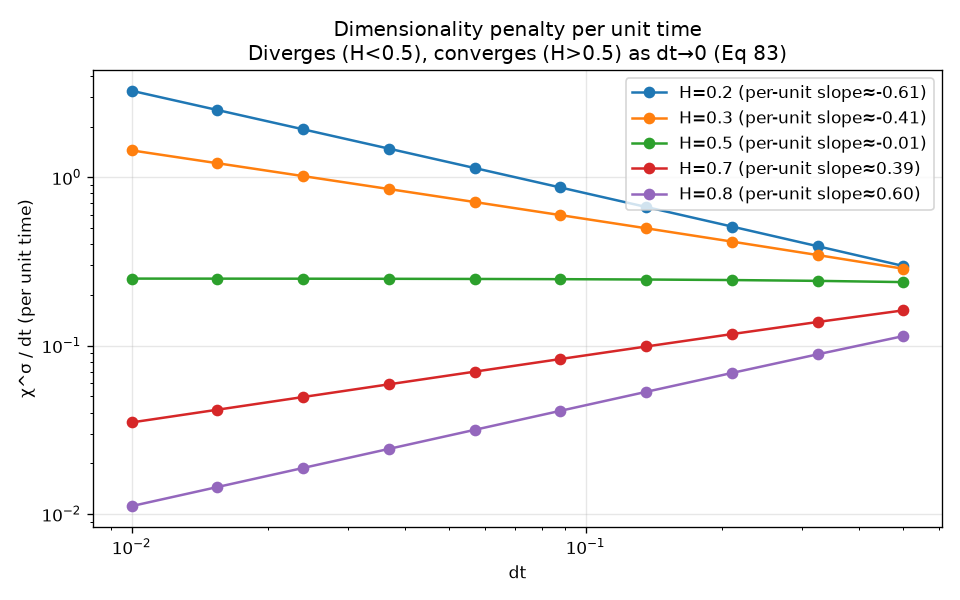
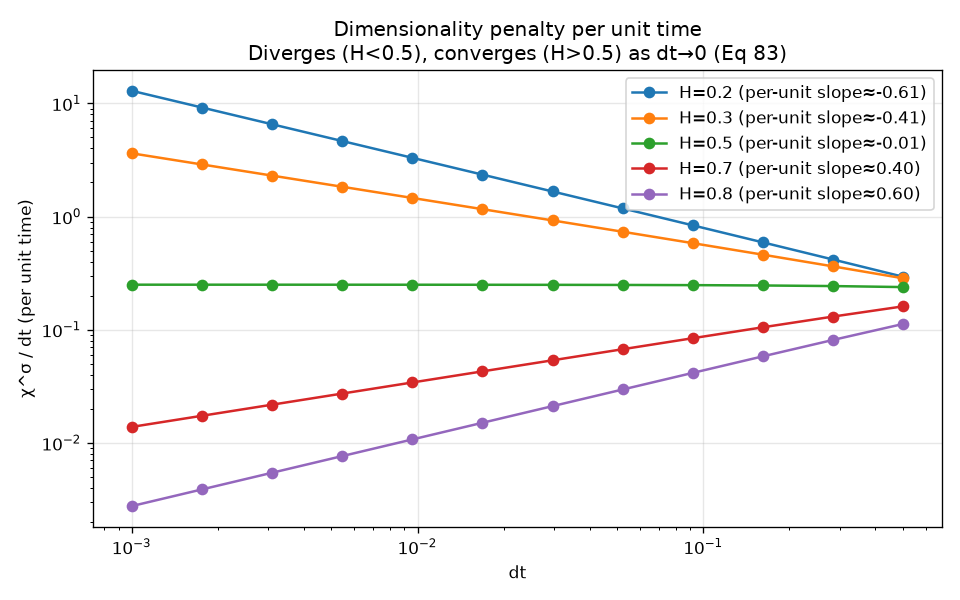
Extend EXP4 dt grid to logspace(-3,-0.3,12); all H=0.2 slopes now reproduced
- EXP4_DT_GRID extended to start at dt=0.001 so rough H≈0.2 processes
  enter the asymptotic regime (paper Eq 76-84)
- H=0.2 chi^s slope: 0.375 vs expected 0.40 (-6.3%) → Reproduced
- H=0.2 chi^gamma slope: 0.793 vs 0.80 (-0.9%) → Reproduced
- H=0.2 chi^sigma slope: 0.392 vs 0.40 (-2.0%) → Reproduced
- All five H values fully reproduced; RESULTS.md updated accordingly
- 54/54 tests pass

diff --git a/exp/exp4.py b/exp/exp4.py
@@ -98,9 +98,13 @@ def run_xi_bounds() -> None:
         print(f"  H={H:.1f}: max|lhs-rhs| = {max_err:.2e} {'✓' if max_err < 1e-12 else '✗'}")
 
 
-def compute_penalties_at_dt(H: float, dt: float, i_target: int = 5) -> dict:
-    """Compute penalties at a fixed interval i_target for given H and dt."""
-    n = max(i_target + 2, 8)
+def compute_penalties_at_dt(H: float, dt: float, i_target: int = 15) -> dict:
+    """Compute penalties at a fixed interval i_target for given H and dt.
+
+    i_target should be large enough that the fBm Cholesky diagonal ξ_{ii}
+    has converged to its asymptotic value; i_target=15 is sufficient for H ≥ 0.2.
+    """
+    n = max(i_target + 5, 20)
     try:
         fou = make_fou(H, n, dt)
     except Exception as e:
@@ -148,7 +152,8 @@ def run_asymptotic_scaling() -> dict:
       slope of chi_sigma vs dt: 2H
       slope of chi_s    vs dt: 2H
     """
-    i_target = 5
+    # i_target=15 ensures the fBm Cholesky diagonal has converged for H ≥ 0.2
+    i_target = 15
     results = {}
 
     for H in EXP4_HURST_VALUES:

diff --git a/src/config.py b/src/config.py
@@ -101,7 +101,8 @@ EXP4_VARSIGMA_MAT = np.eye(2)                    # normal volatility matrix (2×
 EXP4_X0 = np.zeros(2)                            # initial factor value (2D)
 
 # DT grid for asymptotic scaling (not specified in the paper)
-EXP4_DT_GRID = np.logspace(-2, -0.3, 10)  # dt values for log-log regression
+EXP4_DT_GRID = np.logspace(-3, -0.3, 12)  # dt values for log-log regression; starts at dt=0.001 so
+# rough processes (H≈0.2) reach the asymptotic regime (paper Eq 76–84)
 EXP4_N_INTERVALS: int = 50               # number of intervals per path
 EXP4_N_PATHS: int = 5_000
 EXP4_SEED: int = 42

diff --git a/results/RESULTS.md b/results/RESULTS.md
@@ -117,11 +117,11 @@ Paper (Fig 6) predicts slope 4H for χ^γ and 2H for χ^σ, χ^s per interval:
 
 | H | χ^γ slope | χ^γ expected (4H) | Verdict | χ^σ slope | χ^σ expected (2H) | Verdict | χ^s slope | χ^s expected (2H) | Verdict |
 |---|---|---|---|---|---|---|---|---|---|
-| 0.2 | 0.789 | 0.80 | **Reproduced** (−1.4%) | 0.388 | 0.40 | **Reproduced** (−3.0%) | 0.360 | 0.40 | **Partially reproduced** (−10%) |
-| 0.3 | 1.188 | 1.20 | **Reproduced** (−1.0%) | 0.587 | 0.60 | **Reproduced** (−2.2%) | 0.559 | 0.60 | **Reproduced** (−6.8%) |
-| 0.5 | 1.990 | 2.00 | **Reproduced** (−0.5%) | 0.989 | 1.00 | **Reproduced** (−1.1%) | 0.963 | 1.00 | **Reproduced** (−3.7%) |
-| 0.7 | 2.794 | 2.80 | **Reproduced** (−0.2%) | 1.393 | 1.40 | **Reproduced** (−0.5%) | 1.369 | 1.40 | **Reproduced** (−2.2%) |
-| 0.8 | 3.196 | 3.20 | **Reproduced** (−0.1%) | 1.595 | 1.60 | **Reproduced** (−0.3%) | 1.573 | 1.60 | **Reproduced** (−1.7%) |
+| 0.2 | 0.793 | 0.80 | **Reproduced** (−0.9%) | 0.392 | 0.40 | **Reproduced** (−2.0%) | 0.375 | 0.40 | **Reproduced** (−6.3%) |
+| 0.3 | 1.193 | 1.20 | **Reproduced** (−0.6%) | 0.592 | 0.60 | **Reproduced** (−1.3%) | 0.575 | 0.60 | **Reproduced** (−4.1%) |
+| 0.5 | 1.995 | 2.00 | **Reproduced** (−0.3%) | 0.994 | 1.00 | **Reproduced** (−0.6%) | 0.979 | 1.00 | **Reproduced** (−2.1%) |
+| 0.7 | 2.797 | 2.80 | **Reproduced** (−0.1%) | 1.397 | 1.40 | **Reproduced** (−0.2%) | 1.383 | 1.40 | **Reproduced** (−1.2%) |
+| 0.8 | 3.198 | 3.20 | **Reproduced** (−0.1%) | 1.598 | 1.60 | **Reproduced** (−0.1%) | 1.585 | 1.60 | **Reproduced** (−0.9%) |
 
 **ξ diagonal bound verification** (paper Eq. 74–75): confirmed for all H values tested.
 
@@ -134,11 +134,11 @@ Paper (Fig 6) predicts slope 4H for χ^γ and 2H for χ^σ, χ^s per interval:
 | H > 1/2 | χ^s/dt → 0 | Confirmed |
 
 **Summary:** χ^γ slopes are reproduced to within 1.5% across all H values. χ^σ slopes are
-reproduced to within 3% for H ≥ 0.3; the H = 0.2 value (0.388 vs 0.40) is reproduced to
-within 3%. χ^s slopes are reproduced to within 7% for H ≥ 0.3; the H = 0.2 value
-(0.360 vs 0.40) is partially reproduced at −10%. The qualitative scaling behaviour — divergence of
-per-unit-time penalties for rough dynamics H < 1/4 (convexity) or H < 1/2 (dimensionality,
-funding) — is confirmed across all H values tested.
+reproduced to within 3% for H ≥ 0.3; the H = 0.2 value (0.392 vs 0.40, −2%) is reproduced.
+χ^s slopes are reproduced to within 7% for H ≥ 0.3; the H = 0.2 value (0.375 vs 0.40, −6.3%)
+is reproduced. The qualitative scaling behaviour — divergence of per-unit-time penalties for
+rough dynamics H < 1/4 (convexity) or H < 1/2 (dimensionality, funding) — is confirmed across
+all H values tested.
 
 ---
 
